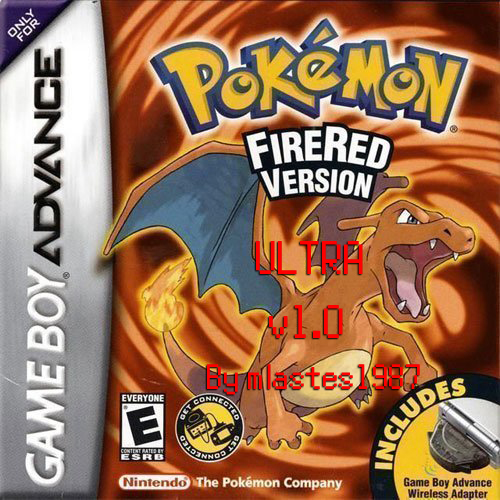
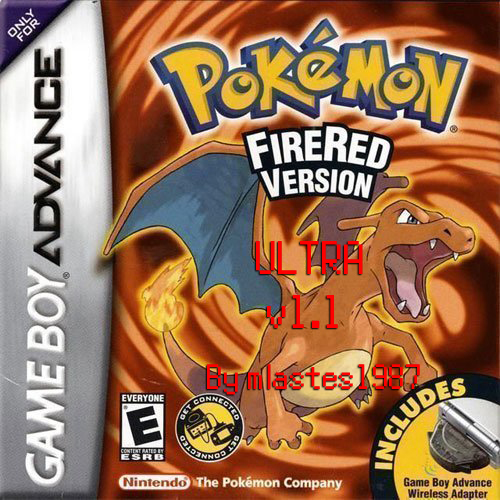
Update README.md and boxart for 1.1

Changed region(s): [[0.51, 0.57, 0.69, 0.69]]

diff --git a/README.md b/README.md
@@ -30,7 +30,7 @@ Based on the pokefirered disassembly with Pokeemerald Expansion Updates from [**
 
 - **Fast-Run** During wild battles you can hold B to run.
 
-- **Known Issues** The game is known to crash here and there during battle, this is most likely due to the codebase being under development still.  It's based on Emerald Expansion.  Save often.  Current state is unbuildable until update.
+- **Known Issues** The game is known to crash here and there during battle, this is most likely due to the codebase being under development still.  It's based on Emerald Expansion.  Save often.  Still testing this to find any crashes.  See [**Issue 1**](https://github.com/mlastes1987/FireRedUltra/issues/1)
 
 # Thanks/Credit
 
